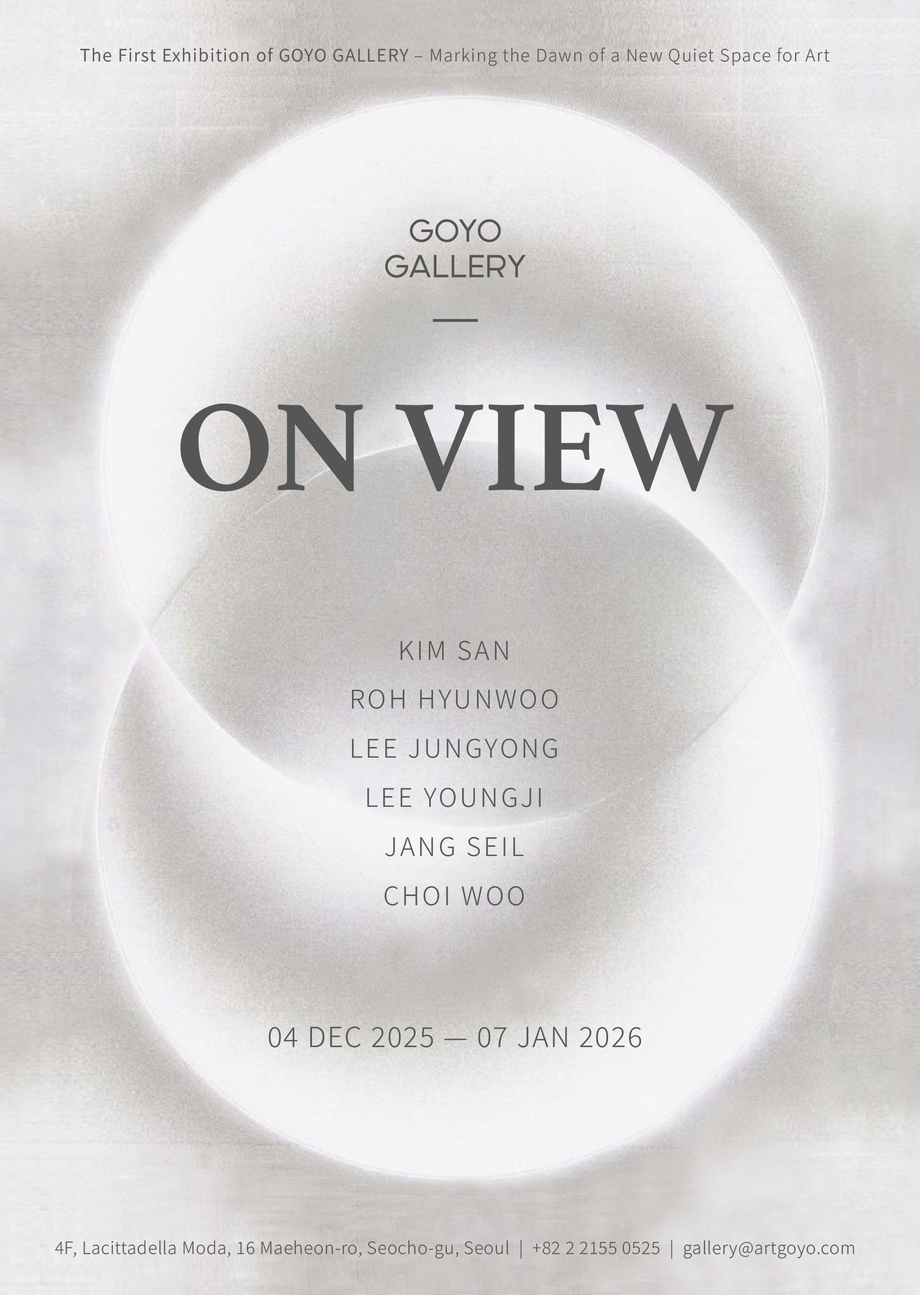
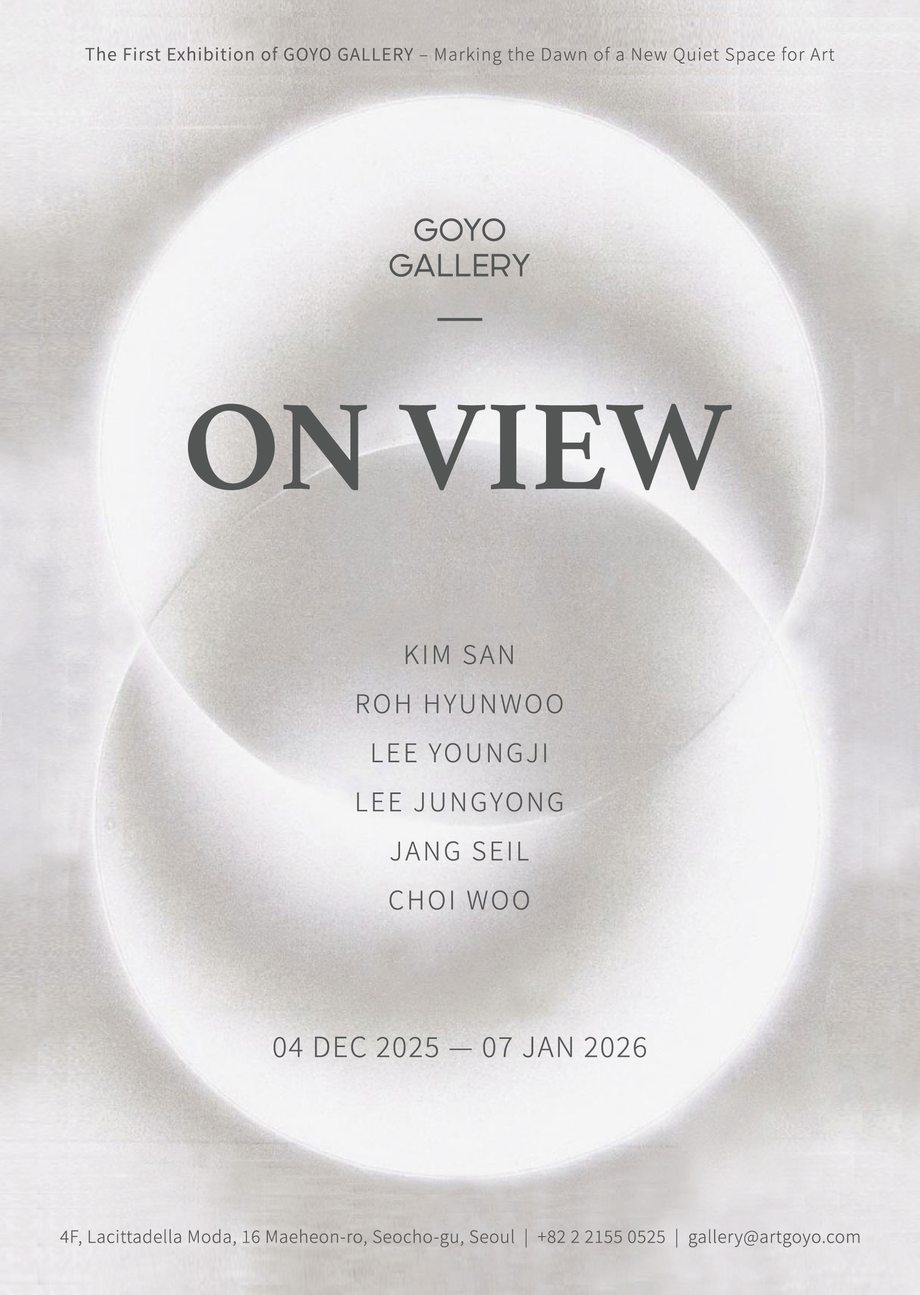
Published your App
Replit-Commit-Author: Deployment
Replit-Commit-Session-Id: 1be3e4e7-71b1-4d25-9e92-df3c0c533893
Replit-Commit-Checkpoint-Type: full_checkpoint
Replit-Commit-Event-Id: aae2171e-c7ef-492b-9edd-a7825752d041
Replit-Commit-Screenshot-Url: https://storage.googleapis.com/screenshot-production-us-central1/bc379cac-2de0-48a7-b6aa-7152a0472038/1be3e4e7-71b1-4d25-9e92-df3c0c533893/aqNZRH5
Replit-Commit-Deployment-Build-Id: 94f8ce20-e737-46f4-bd30-ef66ec0781df

diff --git a/client/src/pages/exhibitions/ExhibitionDetail1.tsx b/client/src/pages/exhibitions/ExhibitionDetail1.tsx
@@ -18,10 +18,22 @@ export default function ExhibitionDetail1() {
               First Exhibition
             </h2>
             
-            <div className="space-y-2 mb-8">
-              <p className="text-lg text-muted-foreground">
-                KIM SAN, ROH HYUNWOO, LEE JUNGYONG, LEE YOUNGJI, JANG SEIL, CHOI WOO <br/>
-                김산, 노현우, 이정용, 이영지, 장세일, 최우
+            <div className="space-y-1 mb-8">
+              <p className="text-m text-muted-foreground">
+                <span className="mr-3">KIM SAN</span>
+                <span className="mr-3">ROH HYUNWOO</span>
+                <span className="mr-3">LEE YOUNGJI</span>
+                <span className="mr-3">LEE JUNGYONG</span>
+                <span className="mr-3">JANG SEIL</span>
+                <span>CHOI WOO</span>
+              </p>
+              <p className="text-m text-muted-foreground">
+                <span className="mr-3">김산</span>
+                <span className="mr-3">노현우</span>
+                <span className="mr-3">이영지</span>
+                <span className="mr-3">이정용</span>
+                <span className="mr-3">장세일</span>
+                <span>최우</span>
               </p>
               <p className="text-sm text-muted-foreground flex items-center gap-2">
                 <Calendar className="h-4 w-4" />
@@ -87,18 +99,6 @@ export default function ExhibitionDetail1() {
                 ROH HyeunWoo &lt;No.184_AM05:45 08° 30.JUL.2019(2025)&gt; Oil on Canvas 93.0x163.0cm
               </p>
             </div>
-
-            <div>
-              <img
-                src="/images/Artist/leejungyong/01_ljy.jpg"
-                alt="이정용"
-                className="w-full rounded-md mb-4"
-              />
-              <p className="text-sm text-muted-foreground">
-                LEE JungYong &lt;Surface-2526(2024)&gt; Acrylic on Canvas 116.8x91.0cm
-              </p>
-            </div>
-
             <div>
               <img
                 src="/images/Artist/leeyoungji/01_lyj.jpg"
@@ -108,6 +108,16 @@ export default function ExhibitionDetail1() {
               <p className="text-sm text-muted-foreground">
                 LEE YoungJi &lt;바람 속의 멜로디(2025)&gt; Bunchae on Jangji 91.0x91.0cm
                   <em></em>
+              </p>
+            </div>
+            <div>
+              <img
+                src="/images/Artist/leejungyong/01_ljy.jpg"
+                alt="이정용"
+                className="w-full rounded-md mb-4"
+              />
+              <p className="text-sm text-muted-foreground">
+                LEE JungYong &lt;Surface-2526(2024)&gt; Acrylic on Canvas 116.8x91.0cm
               </p>
             </div>
 

diff --git a/shared/artists.ts b/shared/artists.ts
@@ -10,42 +10,42 @@ export const artists: ArtistMeta[] = [
   {
     id: "kimsan",
     name: "김 산",
-    nameEn: "Kim san",
+    nameEn: "KIM San",
     medium: "회화 | Painting",
     thumbnail: "/images/Artist/kimsan/01_ks.jpg"
   },
   {
     id: "rohhyunwoo",
     name: "노현우",
-    nameEn: "Roh Hyun-woo",
+    nameEn: "ROH HyunWoo",
     medium: "회화 | Painting",
     thumbnail: "/images/Artist/rohhyunwoo/01_rhw.jpg"
   },
   {
-    id: "leejungyoung",
-    name: "이정용",
-    nameEn: "Lee Jung-yong",
-    medium: "회화 | Painting",
-    thumbnail: "/images/Artist/leejungyong/01_ljy.jpg"
-  },
-  {
     id: "leeyoungji",
     name: "이영지",
-    nameEn: "Lee Young-ji",
+    nameEn: "LEE YoungJi",
     medium: "회화 | Painting",
     thumbnail: "/images/Artist/leeyoungji/01_lyj.jpg"
   },
   {
+    id: "leejungyoung",
+    name: "이정용",
+    nameEn: "LEE JungYong",
+    medium: "회화 | Painting",
+    thumbnail: "/images/Artist/leejungyong/01_ljy.jpg"
+  },
+  {
     id: "jangseil",
     name: "장세일",
-    nameEn: "Jang Se-il",
+    nameEn: "JANG SeIl",
     medium: "조각 | Sculpture",
     thumbnail: "/images/Artist/jangseil/01_jsi.jpg"
   },
   {
     id: "choiwoo",
     name: "최우",
-    nameEn: "Choi Woo",
+    nameEn: "CHOI Woo",
     medium: "회화 | Painting",
     thumbnail: "/images/Artist/choiwoo/01_cw.jpg"
   },

diff --git a/shared/exhibitions.ts b/shared/exhibitions.ts
@@ -15,7 +15,7 @@ export const exhibitions: Exhibition[] = [
     id: "1",
     title: "ON VEIW",
     titleEn: "ON VIEW",
-    artists: "KIM SAN, ROH HYUNWOO, LEE JUNGYONG, LEE YOUNGJI, JANG SEIL, CHOI WOO | 김산, 노현우, 이정용, 이영지, 장세일, 최우",
+    artists: "KIM SAN, ROH HYUNWOO, LEE YOUNGJI, LEE JUNGYONG, JANG SEIL, CHOI WOO | 김산, 노현우, 이영지, 이정용, 장세일, 최우",
     date: "2025.12.04 - 2026.01.07",
     status: "current", 
     // Stauts 에 값을 past / upcoming / current 로 넣어주면 변경됨
